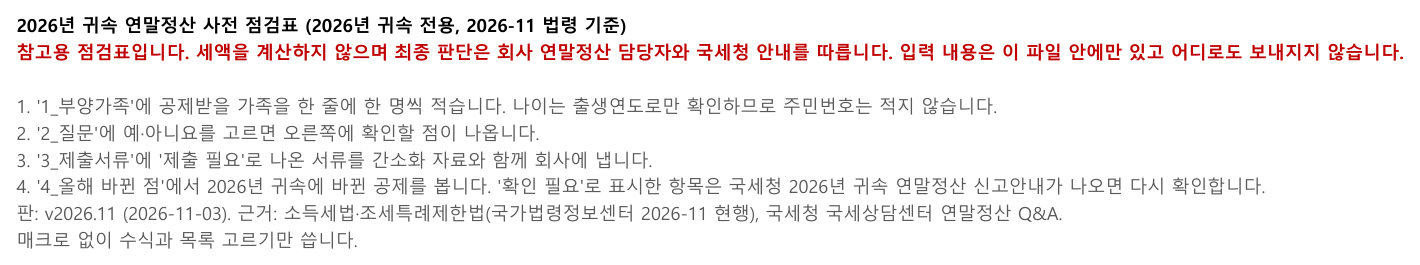
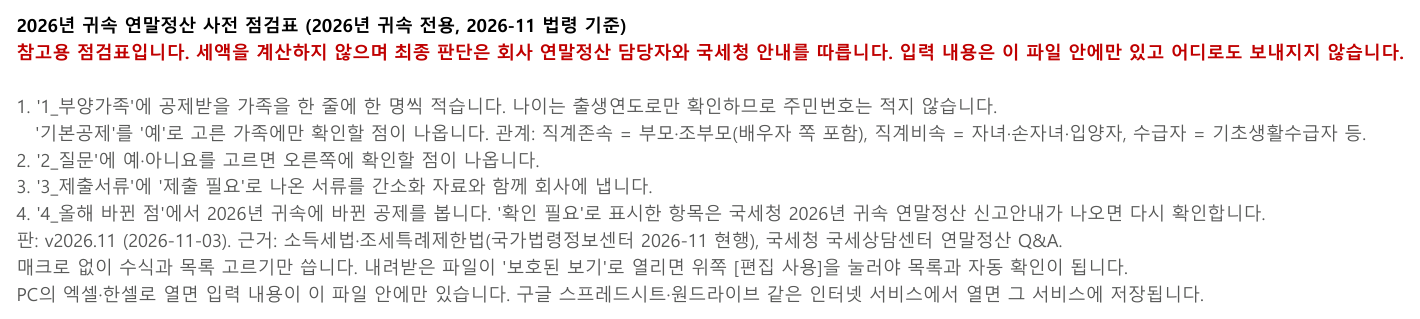
문구 다듬기: 자녀세액공제 출생연도 표기, 월세·전세대출 세대원 단서, 혼인공제 기한, 교육비 확인 필요, 보호된 보기 안내

Changed region(s): [[0.0, 0.3019, 0.9606, 0.966], [0.0, 0.0302, 0.9915, 0.2415]]

diff --git a/index.html b/index.html
@@ -48,13 +48,13 @@ footer{max-width:56rem;margin:1rem auto 0;font-size:.85rem;color:var(--ink2)}
   </div>
 
   <a class="btn" href="연말정산_사전점검표_2026귀속_v2026.11.xlsx" download>엑셀 점검표 내려받기 (v2026.11)</a>
-  <p class="small">엑셀(마이크로소프트 365)과 한셀(한컴오피스 2024)에서 열어 수식 결과를 확인했습니다. 매크로 없이 수식과 목록 고르기만 씁니다.</p>
+  <p class="small">엑셀(마이크로소프트 365)과 한셀(한컴오피스 2024)에서 열어 수식 결과를 확인했습니다. 매크로 없이 수식과 목록 고르기만 씁니다. 내려받은 파일이 '보호된 보기'로 열리면 위쪽 [편집 사용]을 눌러야 목록과 자동 확인이 됩니다. 구글 스프레드시트·원드라이브 같은 인터넷 서비스에서 열면 입력 내용이 그 서비스에 저장됩니다.</p>
 
   <figure><img src="docs/02_부양가족.png" alt="부양가족 시트: 출생연도와 소득을 적으면 연 나이와 확인할 점이 자동으로 나옴" loading="lazy"><figcaption>1_부양가족: 출생연도와 소득을 적으면 '확인할 점'이 자동으로 나옵니다(예시는 가상).</figcaption></figure>
 
   <h2>쓰는 법</h2>
   <ol>
-    <li><b>1_부양가족</b>: 공제받을 가족을 한 줄에 한 명씩 적습니다. 나이는 출생연도로만 확인하므로 주민번호는 적지 않습니다.</li>
+    <li><b>1_부양가족</b>: 공제받을 가족을 한 줄에 한 명씩 적습니다. 나이는 출생연도로만 확인하므로 주민번호는 적지 않습니다. '기본공제'를 '예'로 고른 가족에 확인할 점이 나옵니다.</li>
     <li><b>2_질문</b>: 질문 20개에 예·아니요를 고르면 '예'인 질문 옆에 확인할 점이 나옵니다.</li>
     <li><b>3_제출서류</b>: '제출 필요'로 표시된 서류를 간소화 자료와 함께 회사에 냅니다.</li>
     <li><b>4_올해 바뀐 점</b>: 2026년 귀속에 바뀐 공제와 올해로 끝나는 공제를 봅니다.</li>
@@ -64,8 +64,8 @@ footer{max-width:56rem;margin:1rem auto 0;font-size:.85rem;color:var(--ink2)}
   <h2>무엇을 확인하나요</h2>
   <table>
     <tr><th>기본공제</th><td>직계비속·입양자 20세 이하(2006.1.1 이후 출생), 직계존속 60세 이상(1966.12.31 이전 출생), 형제자매 20세 이하 또는 60세 이상, 장애인은 나이 제한 없음, 연간 소득금액 100만원 이하(근로소득만 있으면 총급여 500만원 이하)</td></tr>
-    <tr><th>추가·세액공제</th><td>경로우대 70세 이상(1956.12.31 이전 출생), 2026년 귀속 자녀세액공제 9세 이상(2017년생 제외)</td></tr>
-    <tr><th>겹치는 공제</th><td>배우자·형제자매가 같은 가족을 기본공제하는지, 기본공제받지 않는 쪽이 그 가족의 의료비·교육비·보험료·카드 사용액을 넣는지</td></tr>
+    <tr><th>추가·세액공제</th><td>경로우대 70세 이상(1956.12.31 이전 출생), 2026년 귀속 자녀세액공제 2016년 이전 출생(나이 기준 9세 이상, 2017년생은 부칙으로 제외)</td></tr>
+    <tr><th>겹치는 공제</th><td>배우자·형제자매가 같은 가족을 기본공제하는지, 기본공제받지 않는 쪽이 그 가족의 의료비·보험료·카드 사용액을 넣는지(교육비는 아래 '확인이 더 필요한 항목')</td></tr>
     <tr><th>특별공제</th><td>실손보험금 차감, 간소화에 없는 의료비·기부금 영수증, 부모 교육비, 가족 대학원 교육비, 형제자매 카드 사용액, 가족 명의 정치자금·고향사랑 기부금</td></tr>
     <tr><th>주택자금</th><td>월세 세액공제, 전세자금 대출 원리금, 주택담보대출 이자, 주택청약종합저축의 요건과 서류</td></tr>
     <tr><th>그 밖</th><td>중도 입사자의 전 직장 원천징수영수증, 혼인·출산 세액공제, 중소기업 취업자 감면, 투자 소득공제 서류</td></tr>

diff --git a/README.md b/README.md
@@ -12,11 +12,11 @@
 
 [**연말정산_사전점검표_2026귀속_v2026.11.xlsx**](연말정산_사전점검표_2026귀속_v2026.11.xlsx)
 
-엑셀(마이크로소프트 365)과 한셀(한컴오피스 2024)에서 열어 수식 결과를 확인했습니다.
+엑셀(마이크로소프트 365)과 한셀(한컴오피스 2024)에서 열어 수식 결과를 확인했습니다. 내려받은 파일이 '보호된 보기'로 열리면 위쪽 [편집 사용]을 눌러야 목록과 자동 확인이 됩니다. 구글 스프레드시트·원드라이브 같은 인터넷 서비스에서 열면 입력 내용이 그 서비스에 저장됩니다.
 
 ## 쓰는 법
 
-1. **1_부양가족**: 공제받을 가족을 한 줄에 한 명씩 적습니다. 나이는 출생연도로만 확인하므로 주민번호는 적지 않습니다. 오른쪽 '확인할 점' 칸에 나이요건·소득요건·경로우대·자녀세액공제 확인 사항이 자동으로 나옵니다.
+1. **1_부양가족**: 공제받을 가족을 한 줄에 한 명씩 적습니다. 나이는 출생연도로만 확인하므로 주민번호는 적지 않습니다. '기본공제'를 '예'로 고른 가족은 오른쪽 '확인할 점' 칸에 나이요건·소득요건·경로우대·자녀세액공제 확인 사항이 자동으로 나옵니다.
 2. **2_질문**: 질문 20개에 예·아니요를 고르면 '예'인 질문 옆에 확인할 점이 나옵니다.
 3. **3_제출서류**: 답에 따라 '제출 필요'가 표시된 서류를 간소화 자료와 함께 회사에 냅니다.
 4. **4_올해 바뀐 점**: 2026년 귀속에 바뀐 공제와 올해로 끝나는 공제를 봅니다.
@@ -28,8 +28,8 @@
 | 구분 | 확인하는 것 |
 |---|---|
 | 기본공제 | 직계비속·입양자 20세 이하(2006.1.1 이후 출생), 직계존속 60세 이상(1966.12.31 이전 출생), 형제자매 20세 이하 또는 60세 이상, 장애인은 나이 제한 없음, 연간 소득금액 100만원 이하(근로소득만 있으면 총급여 500만원 이하) |
-| 추가공제·세액공제 | 경로우대 70세 이상(1956.12.31 이전 출생), 2026년 귀속 자녀세액공제 9세 이상(2017년생 제외) |
-| 가족끼리 겹치는 공제 | 배우자·형제자매가 같은 가족을 기본공제하는지, 기본공제받지 않는 쪽이 그 가족의 의료비·교육비·보험료·카드 사용액을 넣는지 |
+| 추가공제·세액공제 | 경로우대 70세 이상(1956.12.31 이전 출생), 2026년 귀속 자녀세액공제 2016년 이전 출생(나이 기준 9세 이상, 2017년생은 부칙으로 제외) |
+| 가족끼리 겹치는 공제 | 배우자·형제자매가 같은 가족을 기본공제하는지, 기본공제받지 않는 쪽이 그 가족의 의료비·보험료·카드 사용액을 넣는지(교육비는 아래 '확인이 더 필요한 항목') |
 | 특별공제 | 실손보험금 차감, 간소화에 없는 의료비·기부금 영수증, 부모 교육비, 가족 대학원 교육비, 형제자매 카드 사용액, 가족 명의 정치자금·고향사랑 기부금 |
 | 주택자금 | 월세 세액공제, 전세자금 대출 원리금, 주택담보대출 이자, 주택청약종합저축의 요건과 서류 |
 | 그 밖 | 중도 입사자의 전 직장 원천징수영수증, 혼인·출산 세액공제, 중소기업 취업자 감면, 투자 소득공제 서류 |
